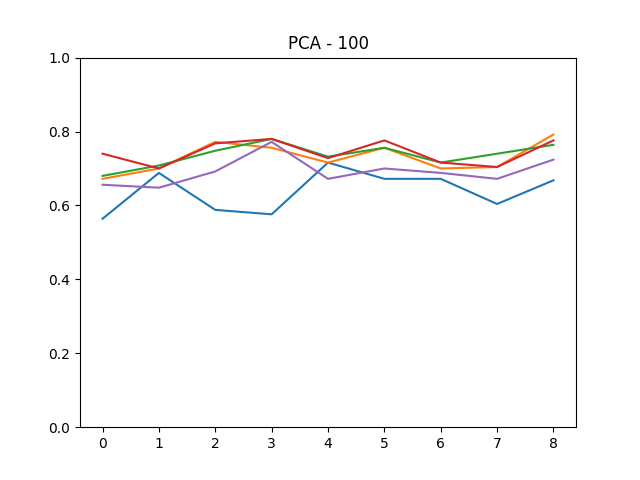
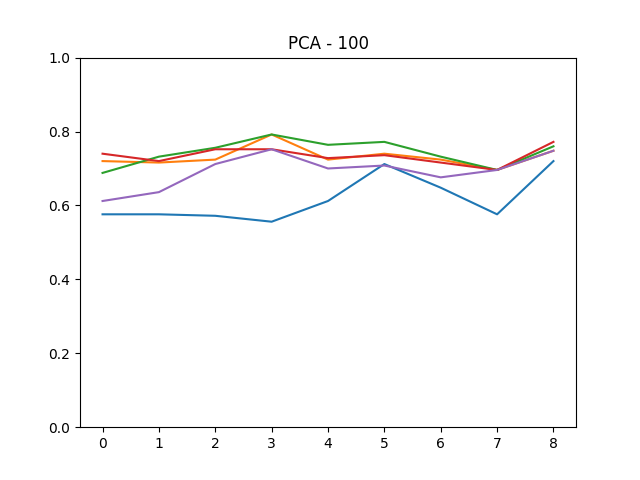
Something.

Changed region(s): [[0.1562, 0.2812, 0.875, 0.4688]]

diff --git a/stream-experiment.py b/stream-experiment.py
@@ -60,7 +60,8 @@ class StreamFromFile:
         return self.chunk
 
 
-used_features = [2, 10, 50, 100, 200, 500]
+used_features = [2, 10, 50, 100, 200, 500, 1000]
+used_features = [1000]
 
 for n_components in used_features:
     # PCA

diff --git a/feature_extractor.py b/feature_extractor.py
@@ -6,7 +6,7 @@ import numpy as np
 from sklearn.feature_extraction.text import CountVectorizer
 from sklearn.preprocessing import StandardScaler
 
-n_features = 1000
+n_features = 500
 crop = 0
 
 #
